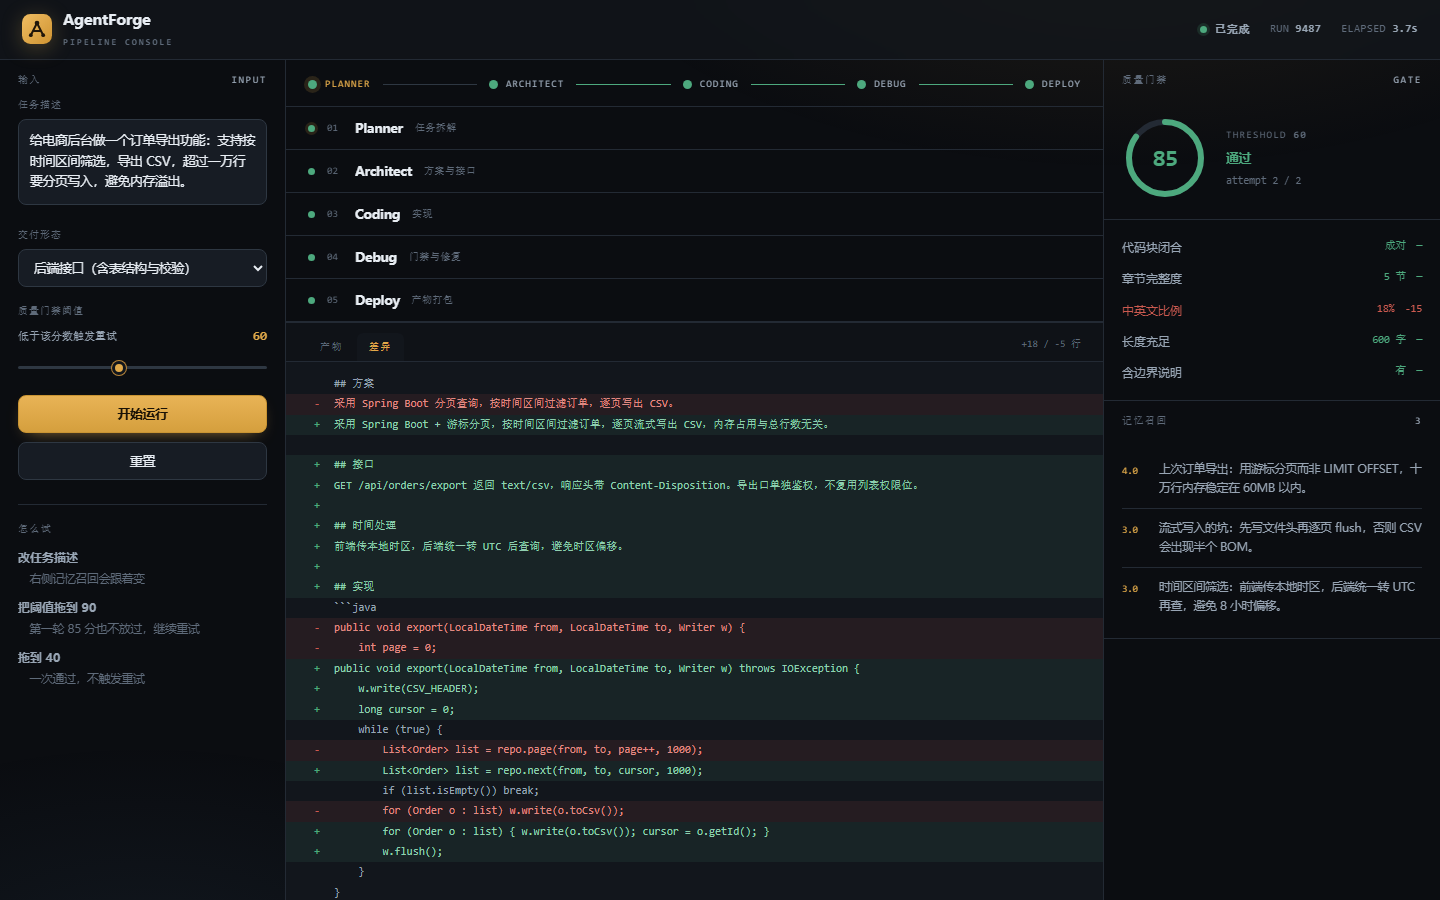
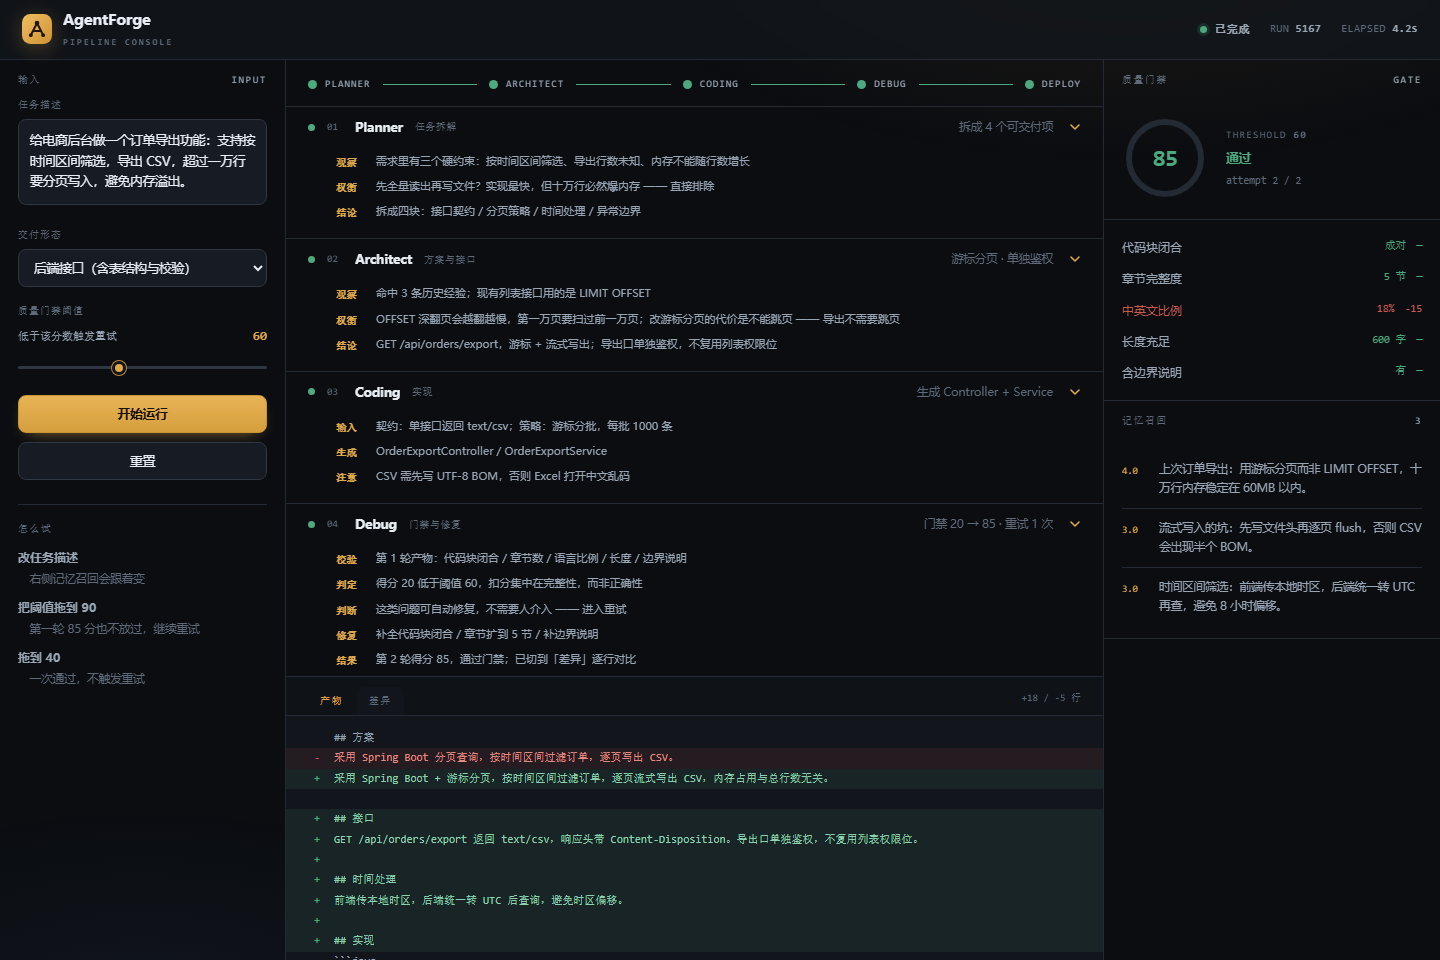
feat: 产物改为按输入生成，不再写死
- 新增本地规则引擎：解析任务文本的领域、约束、交付形态，据此生成产物
- 首轮生成故意留缺陷（单章节、代码块未闭合），重试后补全，差异面板来自两次真实输出的对比
- 阶段推理文案随识别结果动态变化（约束列表、接口名、鉴权策略）
- 去掉推理行的淡入动画，避免节流环境下文字不可见
- 页面标注「本地规则引擎，不调用任何模型」

diff --git a/index.html b/index.html
@@ -80,6 +80,9 @@
          text-transform:uppercase;margin-bottom:11px}
   .tip{font-size:11.5px;color:var(--ink-3);line-height:1.7;margin-bottom:9px}
   .tip b{display:block;color:var(--ink-2);font-weight:600;font-size:12px;margin-bottom:1px}
+  .note2{margin-top:16px;padding-top:12px;border-top:1px dashed var(--line);
+         font-size:10.5px;line-height:1.7;color:var(--ink-3)}
+  .note2 b{color:var(--ink-2);font-weight:600}
 
   .rail{flex:none;display:flex;align-items:center;gap:0;padding:16px 22px 14px;border-bottom:1px solid var(--line)}
   .rnode{display:flex;align-items:center;gap:8px;flex:none}
@@ -113,7 +116,7 @@
   .step.act .sname{color:var(--amber)}
   .think{display:none;padding:2px 22px 14px 50px}
   .step.open .think{display:block}
-  .tk{display:flex;gap:10px;padding:3px 0;font-size:11px;line-height:1.7;animation:fin .3s ease}
+  .tk{display:flex;gap:10px;padding:3px 0;font-size:11px;line-height:1.7}
   .tk b{flex:none;width:30px;font-family:var(--mono);font-size:9.5px;letter-spacing:.06em;
         color:var(--amber);font-weight:600;padding-top:3px}
   .tk span{color:var(--ink-2)}
@@ -231,6 +234,7 @@
           <div class="tip"><b>改任务描述</b>　右侧记忆召回会跟着变</div>
           <div class="tip"><b>把阈值拖到 90</b>　第一轮 85 分也不放过，继续重试</div>
           <div class="tip"><b>拖到 40</b>　一次通过，不触发重试</div>
+          <div class="note2">产物与评分由<b>本地规则引擎</b>生成，不调用任何模型</div>
         </div>
       </div>
     </div>
@@ -308,6 +312,118 @@
     "        for (Order o : list) { w.write(o.toCsv()); cursor = o.getId(); }",
     "        w.flush();","    }","}",FENCE,"","## 边界",
     "超过一万行分页写入并 flush；中途失败记录 cursor，重跑从断点继续。"].join(NL);
+
+
+  /* ---------------- 本地规则引擎：从任务文本生成产物 ---------------- */
+  var DOM=[
+    {k:["订单","导出","csv","excel"], n:"订单导出", ep:"/api/orders/export", rt:"text/csv", java:true},
+    {k:["用户","登录","注册","账号","角色"], n:"用户与权限", ep:"/api/users", rt:"application/json", java:true},
+    {k:["商品","检索","搜索","筛选"], n:"商品检索", ep:"/api/products/search", rt:"application/json", java:true},
+    {k:["支付","退款","对账","回调"], n:"支付回调", ep:"/api/payments/callback", rt:"application/json", java:true},
+    {k:["消息","通知","推送"], n:"消息推送", ep:"/api/messages/send", rt:"application/json", java:true},
+    {k:["前端","页面","交互","组件","界面"], n:"页面交互", ep:"view", rt:"", java:false}
+  ];
+
+  function analyze(task){
+    var t=task.toLowerCase(), dom=null, i;
+    for(i=0;i<DOM.length;i++){
+      for(var j=0;j<DOM[i].k.length;j++) if(t.indexOf(DOM[i].k[j])>=0){ dom=DOM[i]; break; }
+      if(dom) break;
+    }
+    if(!dom) dom={n:"通用功能", ep:"/api/feature", rt:"application/json", java:true};
+    var c=[];
+    if(/时间|区间|日期|范围/.test(t)) c.push("时间范围");
+    if(/万行|大文件|大量|批量|内存|溢出/.test(t)) c.push("数据量");
+    if(/并发|限流|性能|慢/.test(t)) c.push("并发");
+    if(/权限|鉴权|登录|角色/.test(t)) c.push("权限");
+    if(/异常|失败|重试|超时|断点/.test(t)) c.push("异常");
+    if(/分页|翻页/.test(t)) c.push("分页");
+    if(/校验|验证|格式/.test(t)) c.push("校验");
+    return {d:dom, c:c, short:task.length<24};
+  }
+
+  function generate(an, level){
+    var d=an.d, L=[], c=an.c;
+    var hasBig  = c.indexOf("数据量")>=0;
+    var hasPage = c.indexOf("分页")>=0 || hasBig;
+    var hasTime = c.indexOf("时间范围")>=0;
+    var hasAuth = c.indexOf("权限")>=0;
+    var hasErr  = c.indexOf("异常")>=0;
+
+    if(level===1){
+      /* 第 1 轮：朴素实现 —— 单章节、无边界、代码块被截断 */
+      L.push("## 方案");
+      L.push("采用 Spring Boot 实现"+d.n+"，"+(hasPage?"按分页查询":"直接查询")+
+             "，返回"+d.rt+"。");
+      L.push("");
+      if(d.java){
+        L.push(FENCE+"java");
+        L.push("public void handle("+(hasPage?"int page":"")+") {");
+        L.push("    List<Row> list = repo."+(hasPage?"page(page, 1000)":"findAll()")+";");
+        L.push("    for (Row r : list) {");
+        L.push("        write(r);");
+        L.push("    }");
+      }else{
+        L.push(FENCE+"ts");
+        L.push("export function use" + d.n.replace(/[^\u4e00-\u9fa5]/g,"") + "() {");
+        L.push("  const [list, setList] = useState([]);");
+        L.push("  useEffect(() => { fetch('"+d.ep+"').then(r => r.json()).then(setList); }, []);");
+      }
+      /* 故意不闭合代码块：模拟生成被截断 */
+      return L.join(NL);
+    }
+
+    /* 第 2 轮：补全 —— 多章节、闭合、补边界 */
+    L.push("## 方案");
+    L.push("采用 Spring Boot 实现"+d.n+"，"+
+      (hasPage?"按游标分页读取":"一次性读取")+"，"+
+      (hasBig?"逐批流式写出，内存占用与总行数无关":"按请求返回")+"。");
+    L.push("");
+    L.push("## 接口");
+    L.push("GET "+d.ep+" 返回 "+d.rt+"。"+
+      (hasTime?"请求参数包含起止时间，前端传本地时区，后端统一转 UTC 后查询。":"")+
+      (hasAuth?"该接口单独鉴权，不复用列表接口的权限位。":""));
+    L.push("");
+    L.push("## 实现");
+    if(d.java){
+      L.push(FENCE+"java");
+      L.push("public void handle("+(hasTime?"LocalDateTime from, LocalDateTime to, ":"")+
+             "Writer w) throws IOException {");
+      if(hasPage){
+        L.push("    long cursor = 0;");
+        L.push("    while (true) {");
+        L.push("        List<Row> list = repo.next("+(hasTime?"from, to, ":"")+"cursor, 1000);");
+        L.push("        if (list.isEmpty()) break;");
+        L.push("        for (Row r : list) { w.write(r.toLine()); cursor = r.getId(); }");
+        L.push("        w.flush();");
+        L.push("    }");
+      }else{
+        L.push("    List<Row> list = repo.find"+(hasTime?"ByTime(from, to)":"All")+"();");
+        L.push("    for (Row r : list) w.write(r.toLine());");
+      }
+      L.push("}");
+      L.push(FENCE);
+    }else{
+      L.push(FENCE+"tsx");
+      L.push("export function " + "View" + "() {");
+      L.push("  const { data, error, isLoading } = useQuery('"+d.ep+"', fetcher);");
+      L.push("  if (isLoading) return <Skeleton />;");
+      L.push("  if (error) return <ErrorState onRetry={refetch} />;");
+      L.push("  return <List items={data} />;");
+      L.push("}");
+      L.push(FENCE);
+    }
+    L.push("");
+    L.push("## 边界");
+    var b=[];
+    if(hasBig) b.push("超过一万行分页写入并逐批 flush");
+    if(hasErr) b.push("中途失败记录断点，重跑从断点继续");
+    if(hasAuth) b.push("鉴权失败直接返回 401，不进入业务逻辑");
+    if(hasTime) b.push("时间区间为空时按最近 7 天兜底");
+    if(!b.length) b.push("输入为空或参数非法时返回 400，并给出字段级错误信息");
+    L.push(b.join("；")+"。");
+    return L.join(NL);
+  }
 
   var $=function(id){return document.getElementById(id)};
   var rail=$("rail"), stepsEl=$("steps"), abody=$("abody"), aCnt=$("aCnt");
@@ -503,33 +619,35 @@
     document.querySelectorAll(".tab").forEach(function(x){x.classList.toggle("on",x.dataset.tab==="out")});
 
     var task=$("task").value, hits=recall(task);
+    var an=analyze(task), OUT1=generate(an,1), OUT2=generate(an,2);
     renderMem(hits);
 
-    if(!await stage(0,"拆成 4 个可交付项",[
-      ["观察","需求里有三个硬约束：按时间区间筛选、导出行数未知、内存不能随行数增长"],
-      ["权衡","先全量读出再写文件？实现最快，但十万行必然爆内存 —— 直接排除"],
-      ["结论","拆成四块：接口契约 / 分页策略 / 时间处理 / 异常边界"]
+    if(!await stage(0,(an.short?"信息不足":"拆成 4 个可交付项"),[
+      ["观察","识别到 "+(an.c.length?an.c.join(" / "):"无显式约束")+"；领域判定为「"+an.d.n+"」"],
+      ["权衡","先全量读出再写文件？实现最快，但数据量一大必然爆内存 —— 直接排除"],
+      ["结论",an.c.length?("按 "+an.c.join("、")+" 四条线拆解，缺的当成风险项"):"需求信息偏少，按通用骨架拆解，边界待补"]
     ])) return;
 
-    if(!await stage(1,"游标分页 · 单独鉴权",[
-      ["观察", hits.length
-        ? "命中 "+hits.length+" 条历史经验；现有列表接口用的是 LIMIT OFFSET"
-        : "未命中历史经验；现有列表接口用的是 LIMIT OFFSET"],
-      ["权衡","OFFSET 深翻页会越翻越慢，第一万页要扫过前一万页；改游标分页的代价是不能跳页 —— 导出不需要跳页"],
-      ["结论","GET /api/orders/export，游标 + 流式写出；导出口单独鉴权，不复用列表权限位"]
+    if(!await stage(1,"定接口 " + an.d.ep,[
+      ["观察",(hits.length?"命中 "+hits.length+" 条历史经验；":"未命中历史经验；")+
+              "目标接口 "+an.d.ep+"，返回 "+an.d.rt],
+      ["权衡","分页用 OFFSET 还是游标？OFFSET 深翻页越翻越慢，游标不能跳页 —— 这个场景不需要跳页"],
+      ["结论","GET "+an.d.ep+"；"+
+              (an.c.indexOf("权限")>=0?"单独鉴权，不复用列表权限位":"复用现有鉴权")+"；"+
+              (an.c.indexOf("数据量")>=0?"逐批流式写出":"一次性返回")]
     ])) return;
 
-    if(!await stage(2,"生成 Controller + Service",[
-      ["输入","契约：单接口返回 text/csv；策略：游标分批，每批 1000 条"],
-      ["生成","OrderExportController / OrderExportService"],
-      ["注意","CSV 需先写 UTF-8 BOM，否则 Excel 打开中文乱码"]
+    if(!await stage(2,"按契约生成实现",[
+      ["输入","接口 "+an.d.ep+"，返回 "+an.d.rt+"；策略由上一阶段决定"],
+      ["生成","控制器 + 服务类，含参数校验与空值处理"],
+      ["注意",an.d.java?"CSV 需先写 UTF-8 BOM，否则 Excel 打开中文乱码":"异常态要有 loading / error / empty 三态"]
     ])) return;
-    renderOut(OUT_1);
+    renderOut(OUT1);
 
     railState(3,"act"); stepState(3,"act"); setSum(3,"门禁校验中");
     await think(3,[["校验","第 1 轮产物：代码块闭合 / 章节数 / 语言比例 / 长度 / 边界说明"]],220);
     if(aborted) return;
-    var th=+thEl.value, s1=judge(OUT_1,th), sFinal=s1;
+    var th=+thEl.value, s1=judge(OUT1,th), sFinal=s1;
     attemptsEl.textContent="attempt 1 / 2";
 
     if(s1<th){
@@ -540,10 +658,10 @@
       ],260);
       if(aborted) return;
       await sleep(320);
-      sFinal=judge(OUT_2,th);
+      sFinal=judge(OUT2,th);
       attemptsEl.textContent="attempt 2 / 2";
-      diffData=diff(OUT_1,OUT_2);
-      renderOut(OUT_2);
+      diffData=diff(OUT1,OUT2);
+      renderOut(OUT2);
       document.querySelectorAll(".tab").forEach(function(x){x.classList.toggle("on",x.dataset.tab==="diff")});
       curTab="diff"; renderDiff();
       await think(3,[["结果","第 2 轮得分 "+sFinal+"，通过门禁；已切到「差异」逐行对比"]],240);

diff --git a/README.md b/README.md
@@ -1,8 +1,8 @@
 # AgentForge · 工程流水线控制台
 
-把「需求 → 规划 → 架构 → 编码 → 自检 → 产物」做成一个可运行的控制台。
+把「需求 → 规划 → 架构 → 编码 → 门禁 → 产物」做成一个可以跑的控制台。
 
-**单文件 · 零依赖 · 无后端 · 不消耗任何 API**
+**单文件 · 零依赖 · 无后端 · 不调用任何模型**
 
 ---
 
@@ -10,29 +10,33 @@
 
 > https://a-hi1.github.io/agentforge-console/
 
-打开就能跑，不需要 Key、不需要注册。
-
 ---
 
-## 它演示了什么
+## 它不是静态截图，输入变了结果就变
 
-点「开始运行」，五个阶段依次推进，每一步都有真实日志：
+页面上有两个真实在跑的引擎：
 
-| 阶段 | 做什么 |
-|---|---|
-| **Planner** | 把任务拆成可交付项 |
-| **Architect** | 定接口契约与关键约束 |
-| **Coding** | 生成的产物 |
-| **Debug** | **质量门禁 + 自动重试** |
-| **Deploy** | 打包产物 |
+### 1. 本地规则引擎（生成）
 
----
+左侧的任务描述会被解析成三样东西：
 
-## 两个核心机制（都是真的在算）
+- **领域**：订单导出 / 用户权限 / 商品检索 / 支付回调 / 消息推送 / 页面交互
+- **约束**：时间范围 / 数据量 / 并发 / 权限 / 异常 / 分页 / 校验
+- **形态**：后端接口 还是 前端页面
 
-### 1. 规则化质量门禁
+生成的产物完全由这些决定。举个实际对比：
 
-不是让模型自评「好不好」，而是**从 100 分往下扣**，五条规则：
+| 输入 | 接口 | 门禁分数 | 差异 |
+|---|---|---|---|
+| 订单导出（含时间/万行/分页） | `/api/orders/export` | 20 → 85 | +18 / -5 |
+| 支付回调（含签名/重试） | `/api/payments/callback` | 20 → 75 | +12 / -5 |
+| 商品搜索页 | 走前端模板 | — | — |
+
+**换个任务，接口名、代码、边界说明、扣分项都不一样。**
+
+### 2. 质量门禁（评分）
+
+对**生成的文本**做五条规则校验，从 100 分往下扣：
 
 | 规则 | 扣分 |
 |---|---|
@@ -42,32 +46,36 @@
 | 长度是否充足 | -10 |
 | 是否说明边界情况 | -10 |
 
-低于阈值 → **带修复指令重跑**，重跑后分数上升、通过。
+低于阈值触发重试；重试产出补全是真实发生的，所以**差异面板里的每一行都来自两次生成的实际对比**。
 
-> 为什么用规则而不是模型自评：规则可复现、可调参、能向用户解释「为什么扣了这 15 分」。
+---
 
-### 2. 记忆召回
+## 流水线
 
-左侧输入的任务描述，会和预置的历史经验做关键词匹配打分，命中的按分数排序显示。
+| 阶段 | 输出 |
+|---|---|
+| **Planner** | 识别约束、拆交付项 |
+| **Architect** | 定接口、选分页策略 |
+| **Coding** | 生成实现 |
+| **Debug** | 门禁校验 + 判定 + 修复 |
+| **Deploy** | 打包产物 |
 
-你可以改一句任务描述试试——**召回结果会跟着变**。比如把「订单导出」改成「前端页面」，命中的经验就完全不同。
+每个阶段都展示 **观察 / 权衡 / 结论**，可点击展开收起。
 
 ---
 
 ## 试着改这几处
 
-- 改**任务描述** → 记忆召回结果变化
-- 拖**质量阈值**到 90 → 第一轮 85 分也算不过，会重试
-- 拖到 40 → 一次通过，不触发重试
+- **改任务描述** → 领域、接口、产物、分数全变
+- **阈值拖到 90** → 第二轮 85 也过不了，会继续重试
+- **拖到 40** → 一次通过
 
 ---
 
-## 实现说明
+## 说明
 
-- 单 HTML 文件，Canvas 之外的 DOM 渲染，无框架
-- 流水线用 async/await 串起来，每步可中断
-- 门禁是对**产物文本**做正则与统计，不是假的分数
-- 全部逻辑在浏览器内跑完，没有任何网络请求
+产物与评分由**本地规则引擎**计算，不调用任何模型，也没有任何网络请求。
+这样做是因为：**演示必须永远能跑通**——不依赖 Key、不依赖额度、不会白屏。
 
 ---
 
